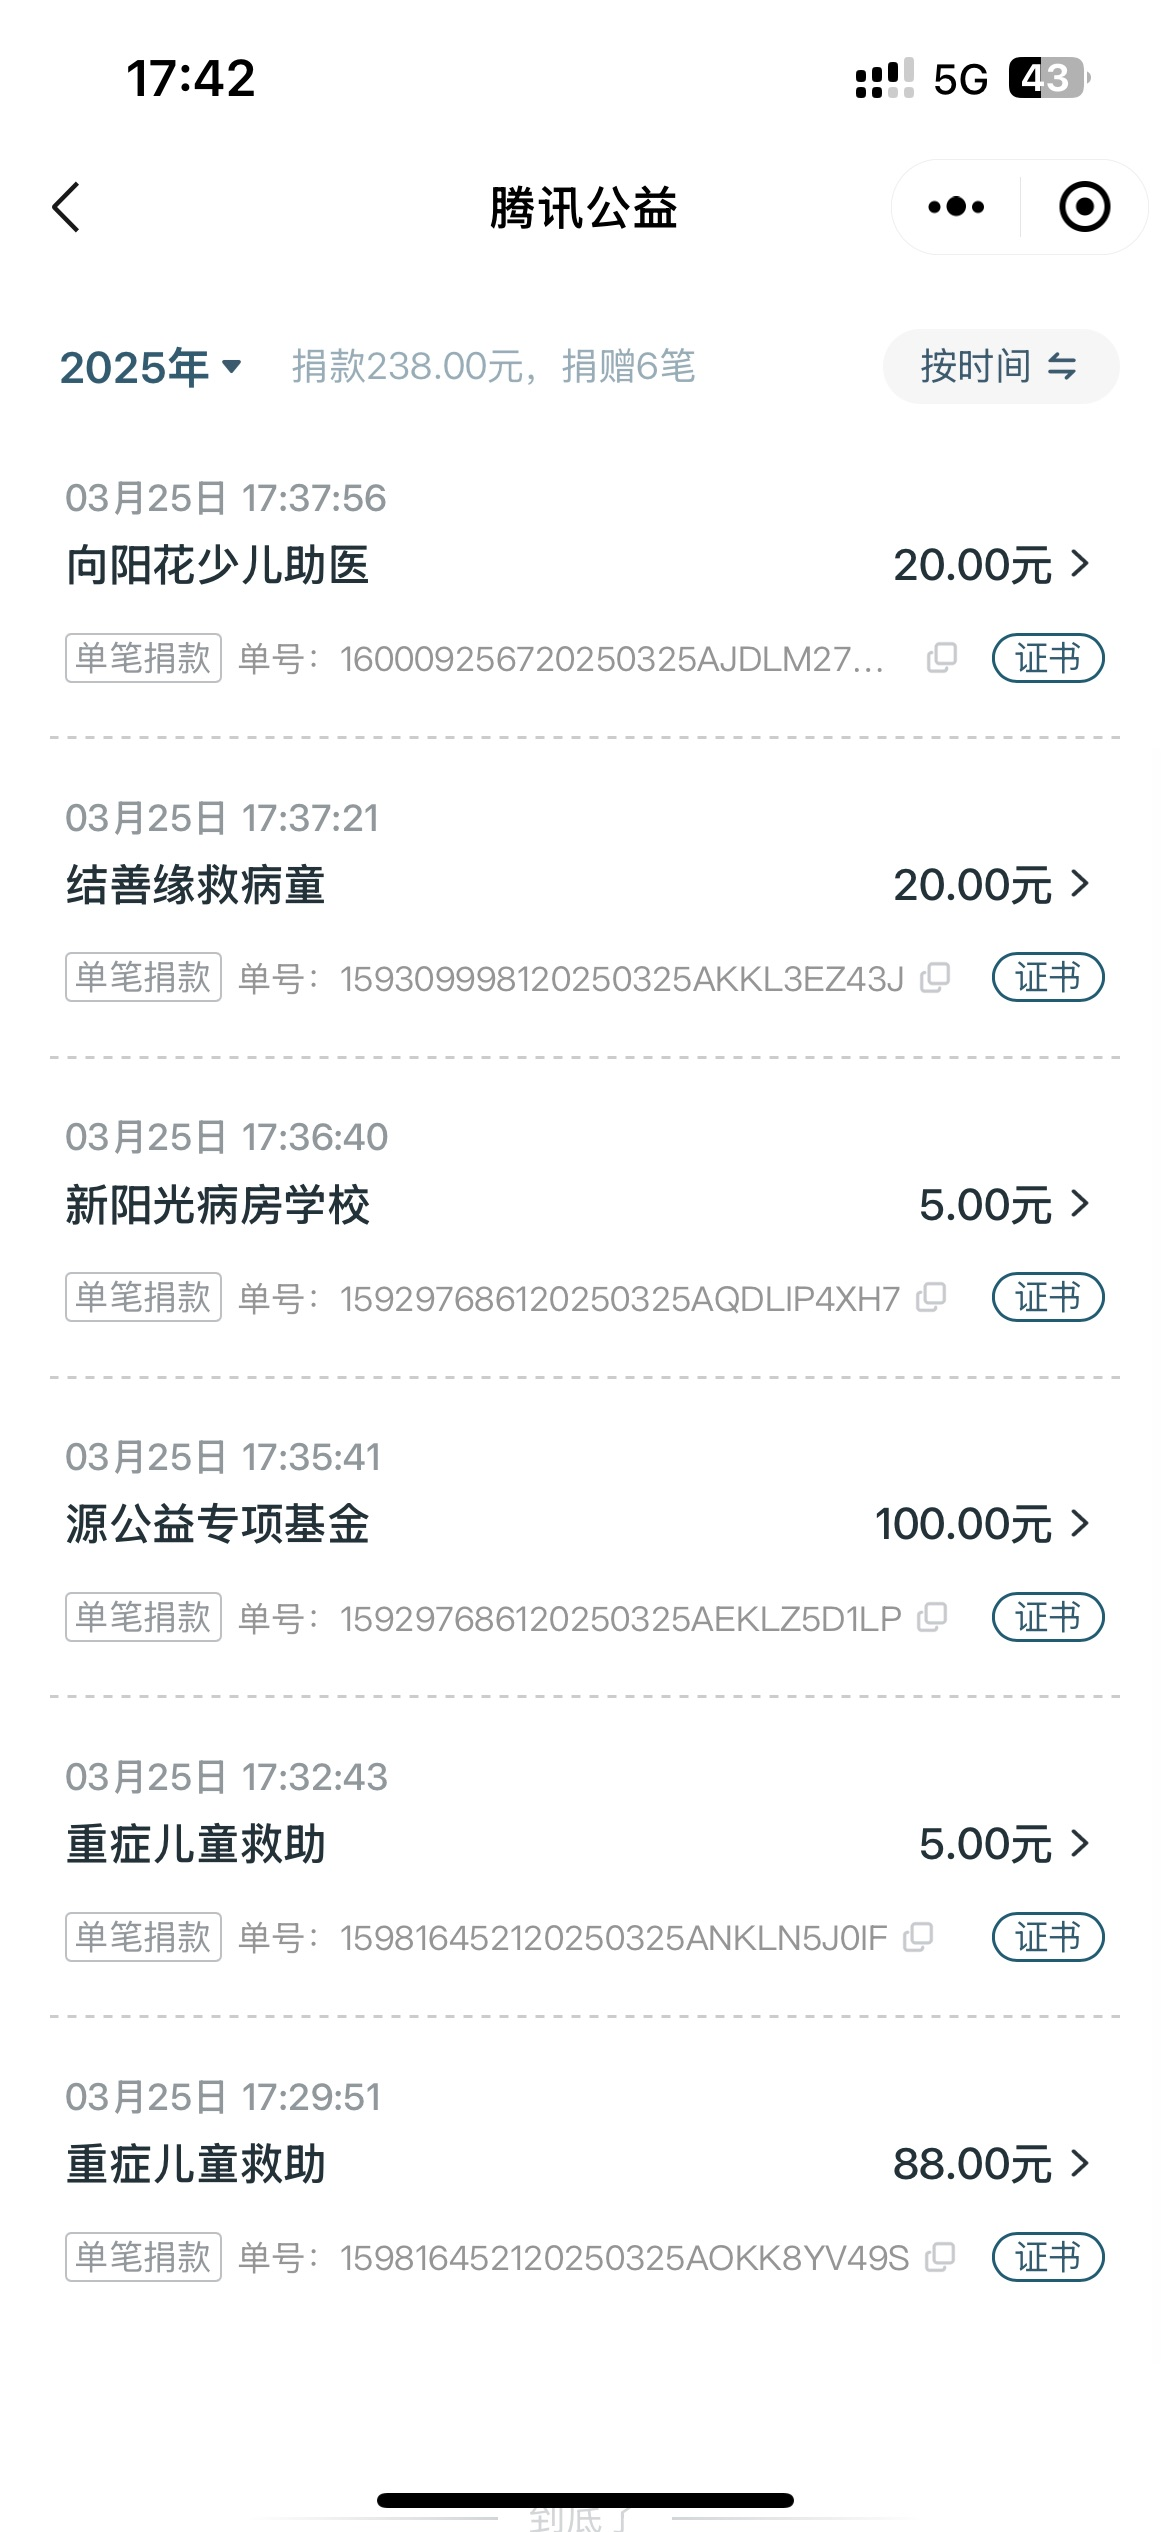
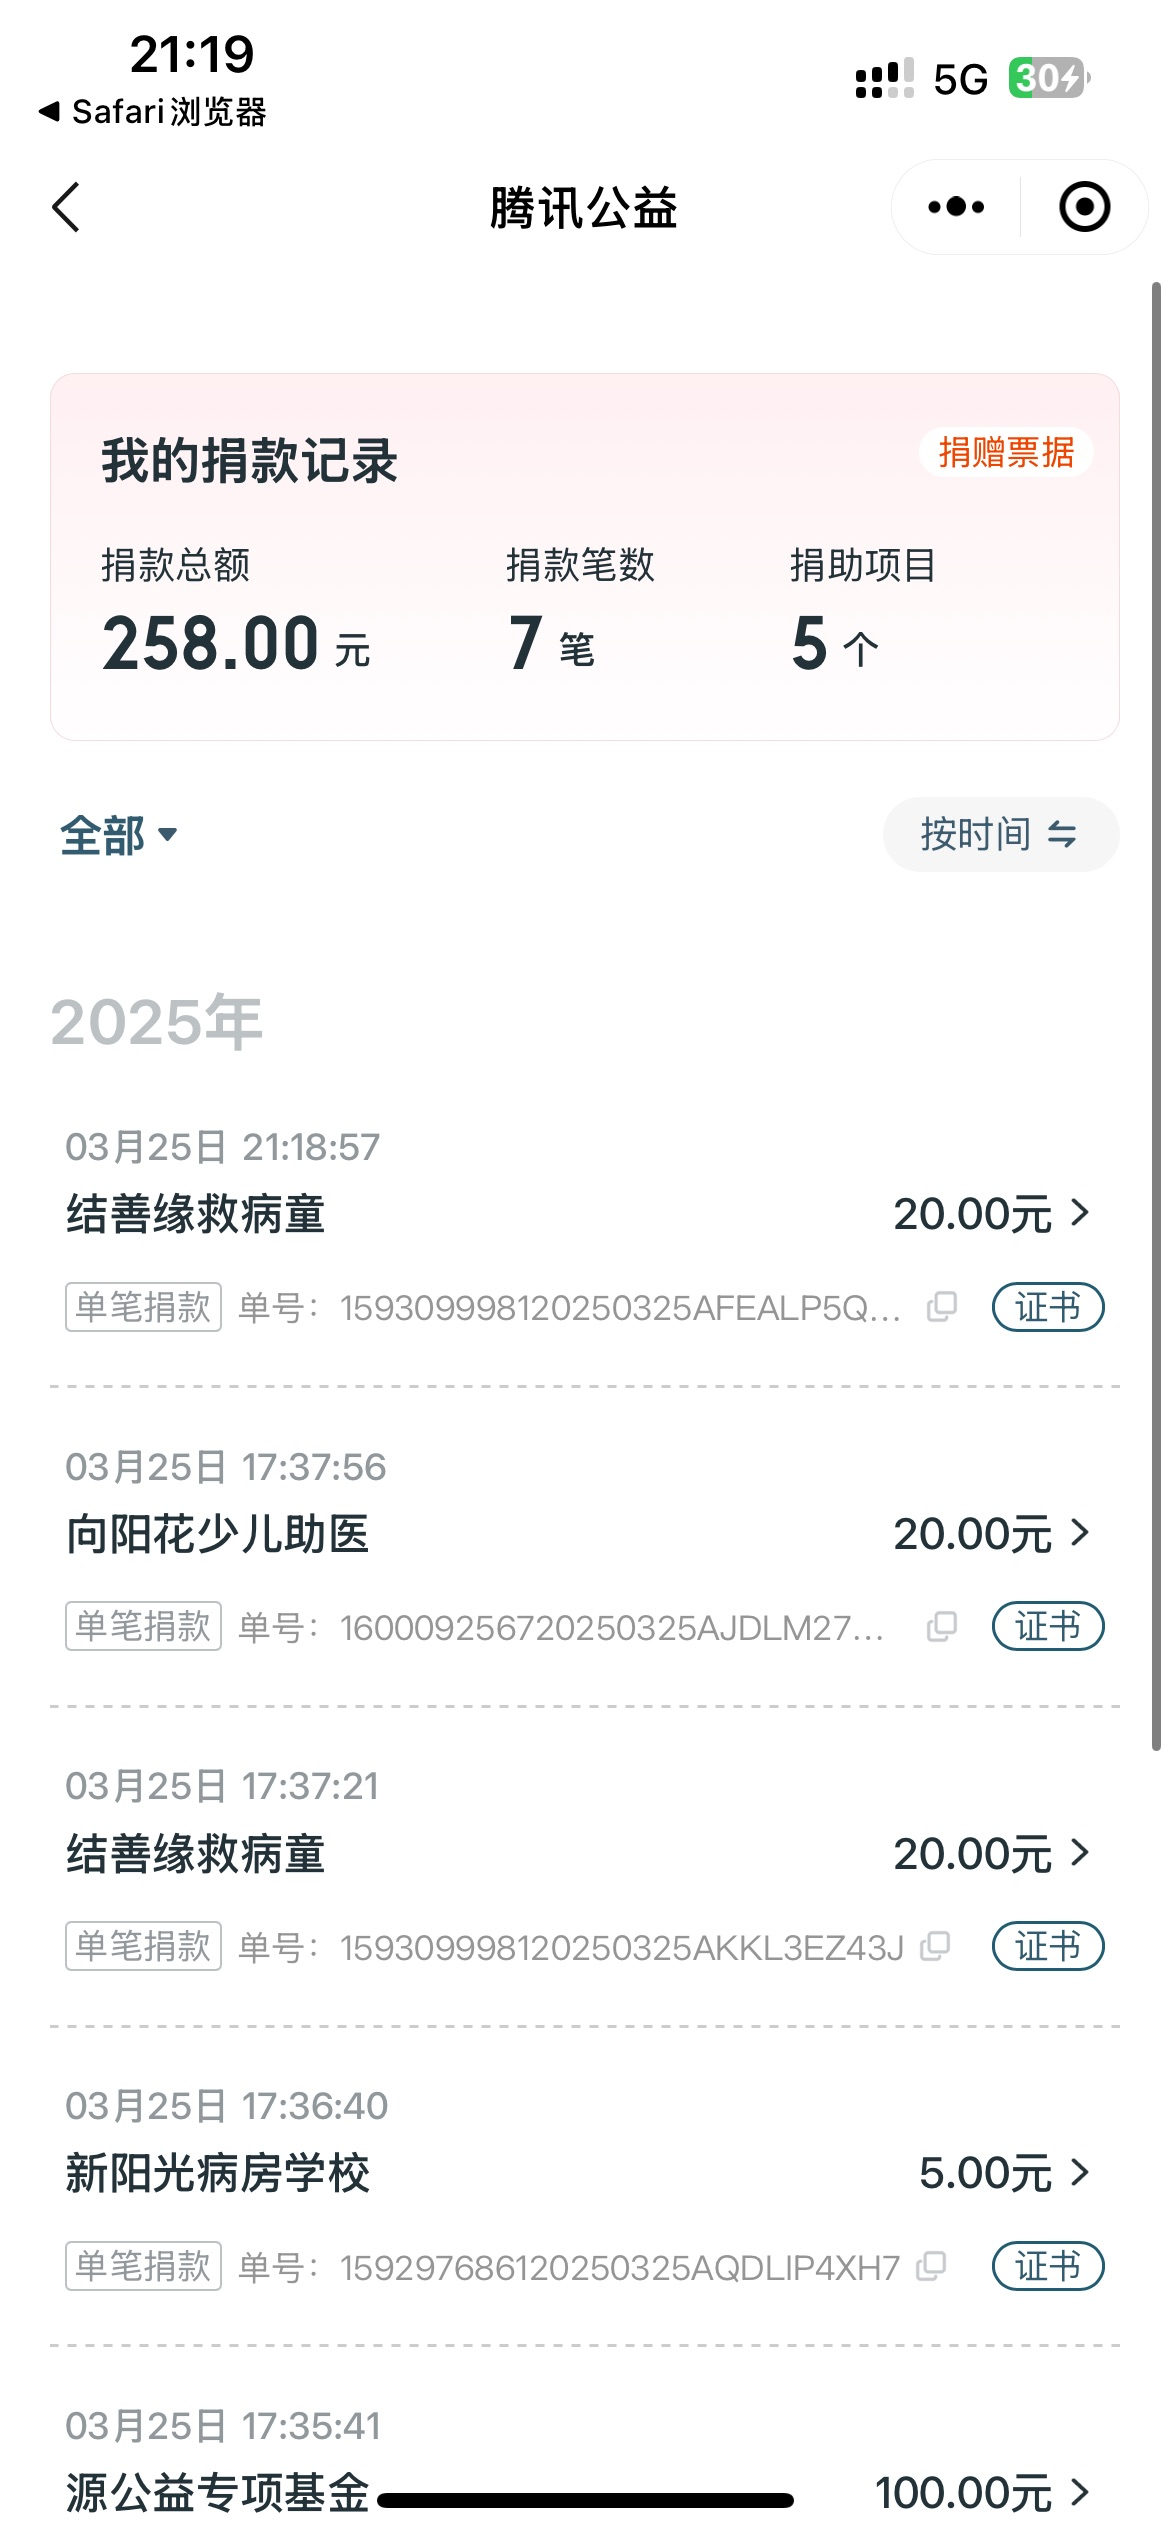
世界破破烂烂，我们缝缝补补

diff --git a/donate/index.html b/donate/index.html
@@ -1,0 +1,22 @@
+<!DOCTYPE html>
+<html lang="en">
+
+<head>
+    <meta charset="UTF-8">
+    <meta name="viewport" content="width=device-width, initial-scale=1.0">
+    <title>捐赠详情</title>
+</head>
+
+<body>
+    <img src="donate/list1.jpg">
+
+    <img src="/159816452120250325AOKK8YV49S.jpg">
+    <img src="/159816452120250325ANKLN5J0IF.jpg">
+    <img src="/159297686120250325AEKLZ5D1LP.jpg">
+    <img src="/159297686120250325AQDLIP4XH7.jpg">
+    <img src="/159309998120250325AKKL3EZ43J.jpg">
+    <img src="/160009256720250325AJDLM27Q9B.jpg">
+    - qq着急同学选择不公示图片
+</body>
+
+</html>

diff --git a/README.md b/README.md
@@ -64,15 +64,9 @@
 | 阿强同学   | 5       | 2025.03.22 | 
 | 🎾 🎾 🎾  | 20      | 2025.03.24 | 
 | 雫咲poi    | 20      | 2025.03.24 | 
+| 着急       | 20      | 2025.03.25 | 
 
 ### 关于打赏
 您的每一笔打赏，我都会原封不动以**您的名义**捐赠到腾讯公益，如果您有更好的渠道，请一定微信联系我。这个世界并不完美，但仍然值得我们去爱。
 
-<img src="donate/list1.jpg">
-
-<img src="donate/159816452120250325AOKK8YV49S.jpg">
-<img src="donate/159816452120250325ANKLN5J0IF.jpg">
-<img src="donate/159297686120250325AEKLZ5D1LP.jpg">
-<img src="donate/159297686120250325AQDLIP4XH7.jpg">
-<img src="donate/159309998120250325AKKL3EZ43J.jpg">
-<img src="donate/160009256720250325AJDLM27Q9B.jpg">
+<h3 ><a target="_blank" href="https://jiawanlong.github.io/Cesium-Examples/donate/index.html/">捐赠证书详情</a> </h3>
